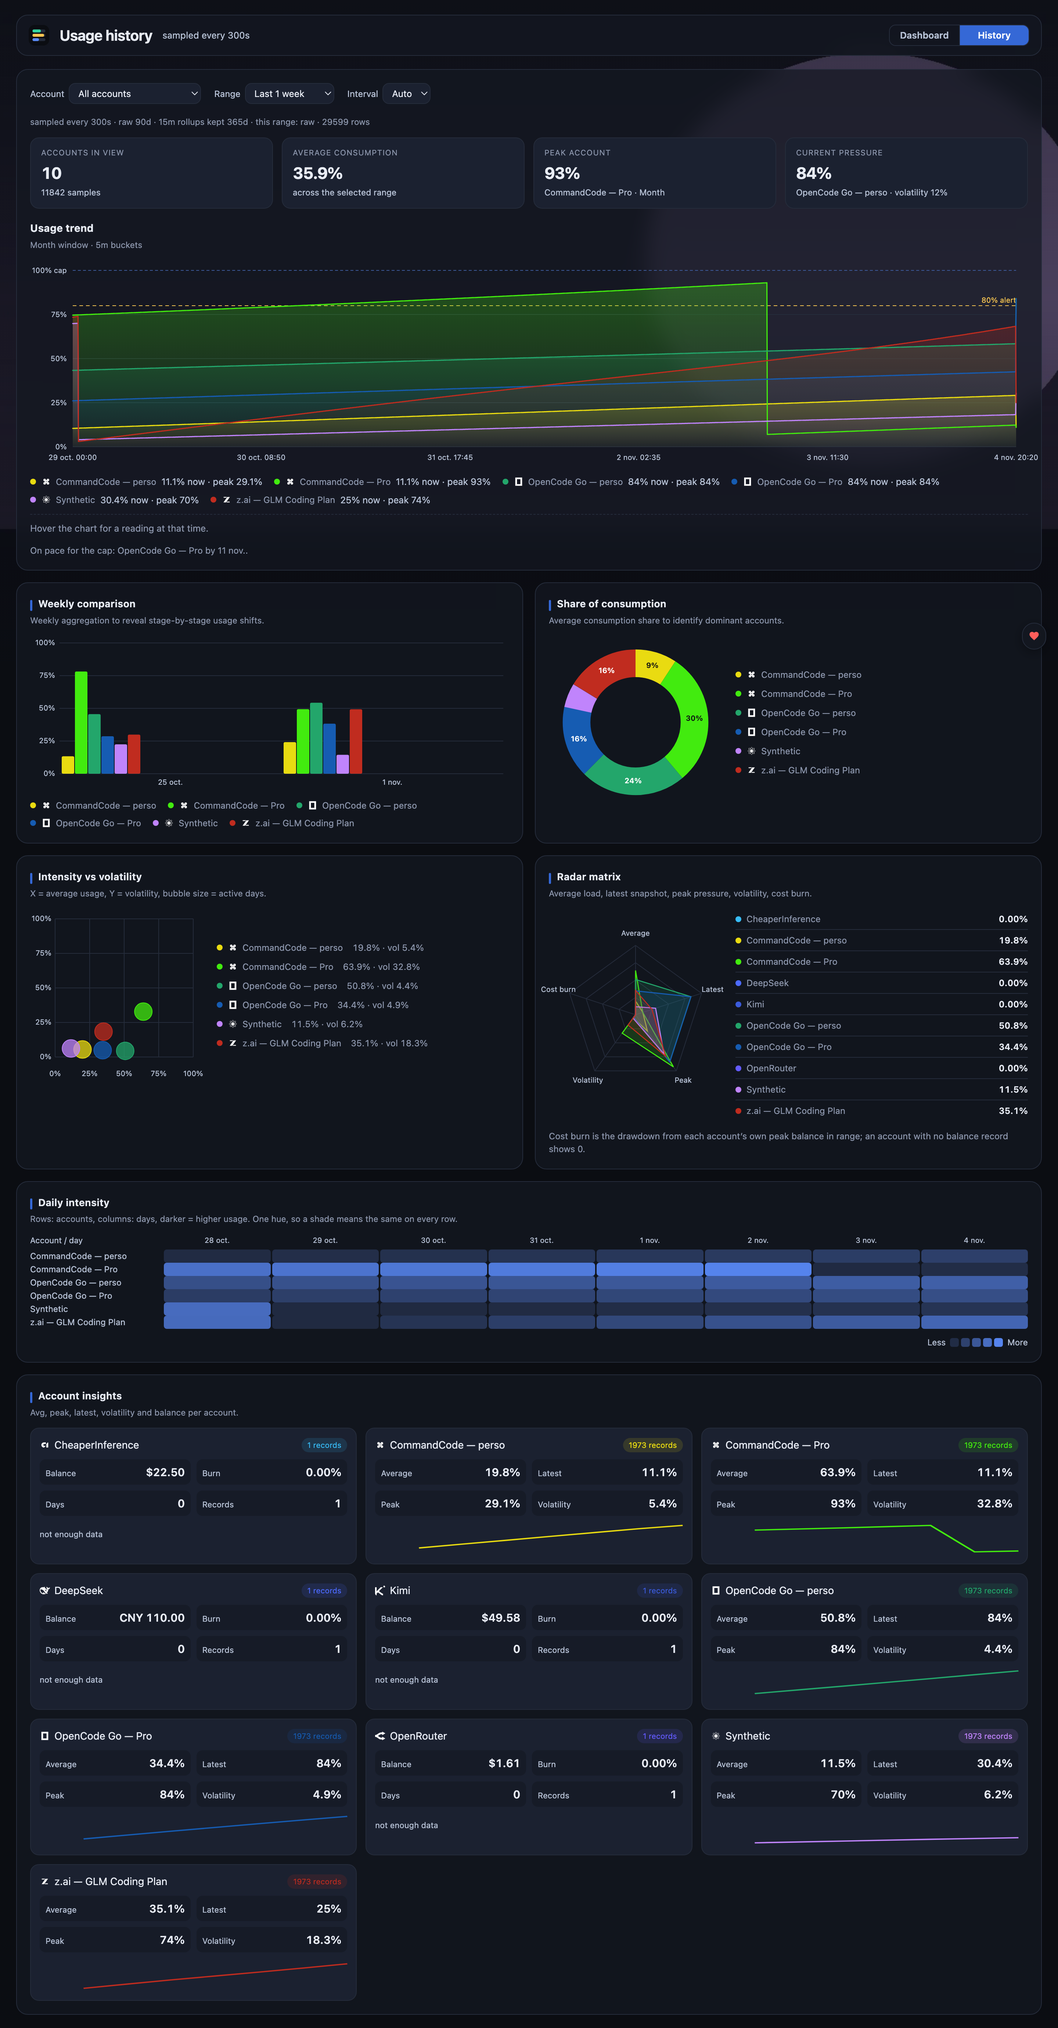
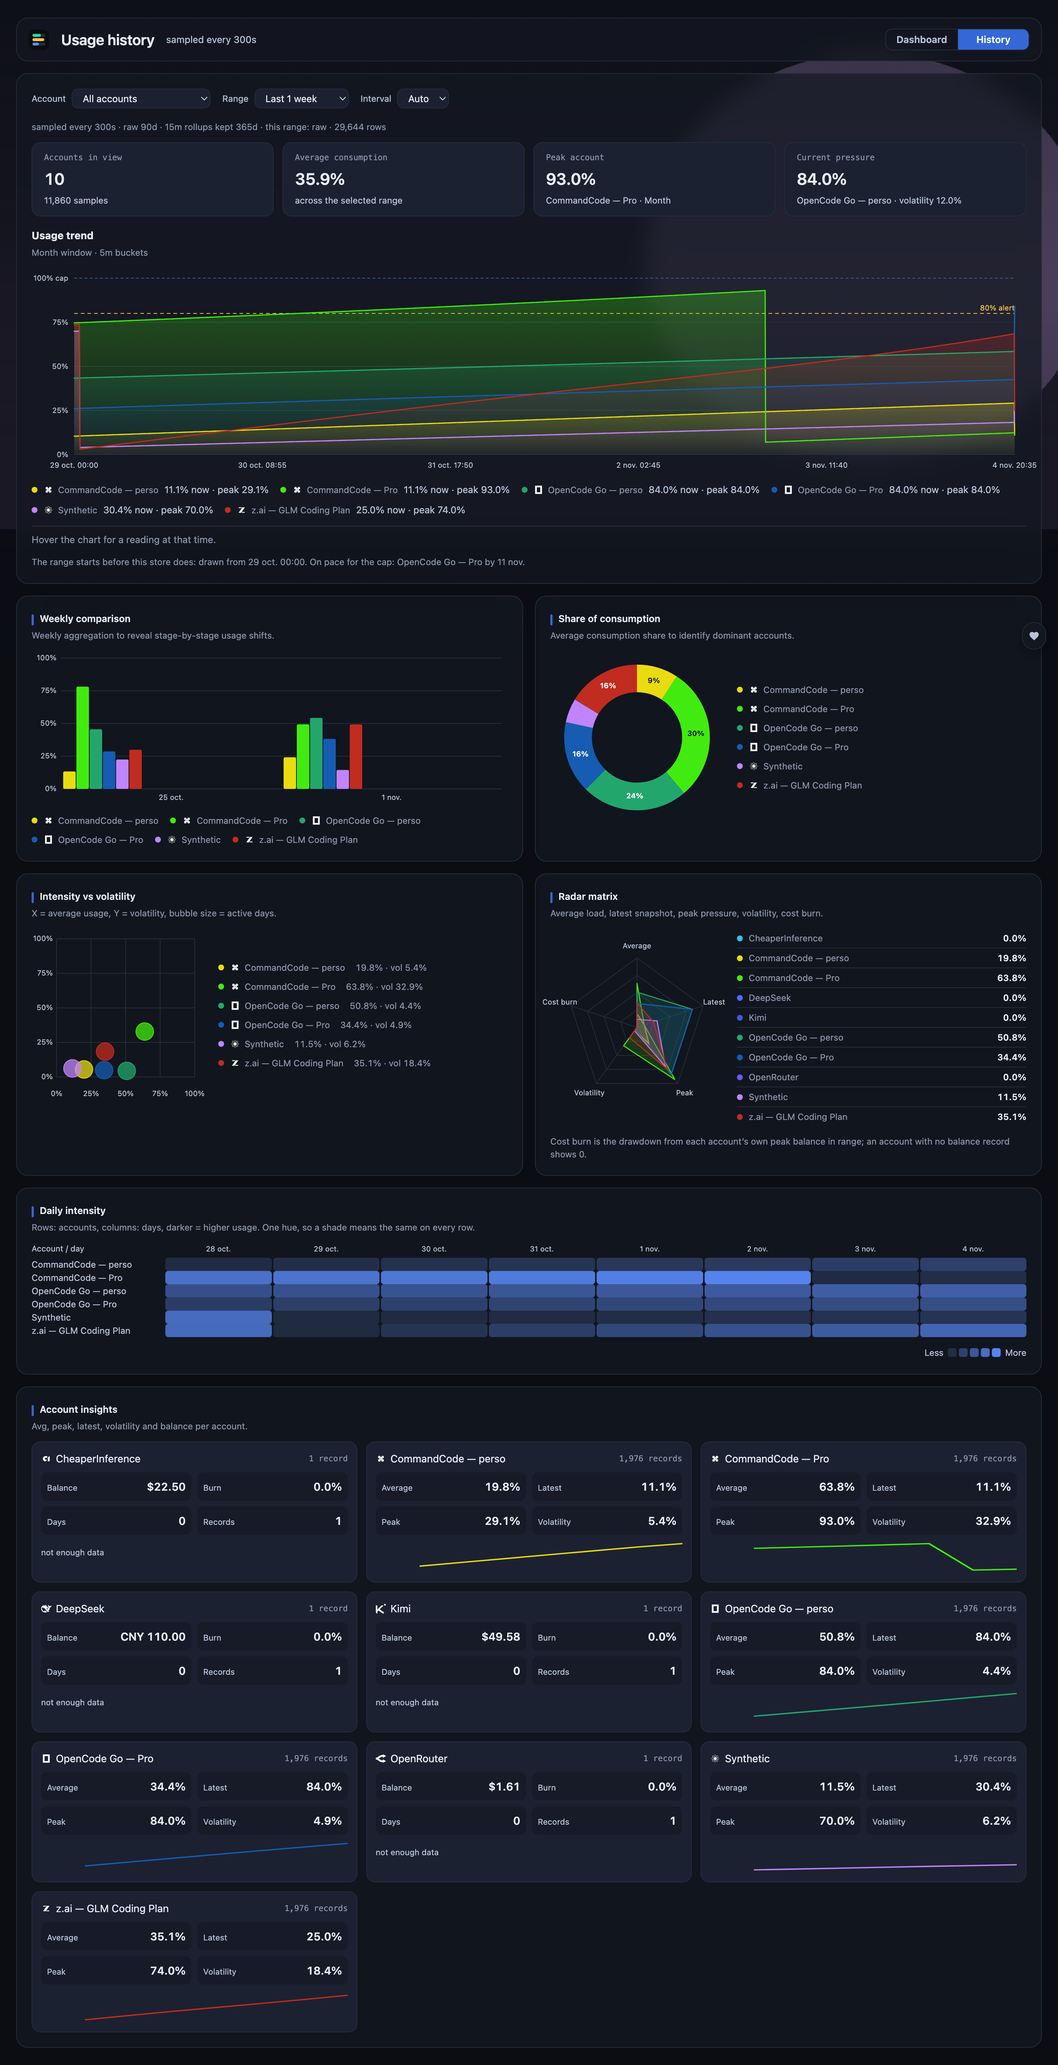
ui(history): same finish as the dashboard
The history page still carried every sign the dashboard just shed:
- stat labels shouted in spaced capitals at 10.5px -> sentence case, mono 11px
- weights 650/700 and negative tracking -> 500/600, no tracking
- percentages switched between 0.00%, 35% and 35.9% -> one decimal everywhere;
  counts grouped (29,644 rows) and singular ('1 record')
- a per-card chip tinted with the account's series colour -> a quiet mono count
- margins, paddings and gaps put back on the 4px scale; panel 20, tile 8
- Ko-fi heart in the chrome's colour, label fades instead of animating width
- dashed readout rule -> solid; loading shimmer calmer
- 'by 11 nov..' -> one stop: the locale's short month already ends with one
- page gutters 24px, matching the dashboard; mobile padding on the grid

Charts keep their sizes, shapes and hand-rolled SVG.

diff --git a/static/history.html b/static/history.html
@@ -34,6 +34,8 @@
     --fg:#e8ecf5; --muted:#b7c2d6; --dim:#8b95ab; --ok:#33d69f; --warn:#f5c451; --hot:#ff6b6b; --accent:#3568d6;
     --accent-rgb:53,104,214;
     --card-alpha:.72; --card-blur:14px;
+    --mono:ui-monospace,SFMono-Regular,Menlo,Monaco,Consolas,"Roboto Mono",monospace;
+    --ease:cubic-bezier(.22,1,.36,1);
   }
   *{box-sizing:border-box}
   /* The page's custom chart control is the only keyboard stop, and a UA ring on an
@@ -42,7 +44,7 @@
   html,body{min-height:100%}
   body{margin:0;color:var(--fg);
        font:14px/1.5 -apple-system,BlinkMacSystemFont,"Segoe UI",Roboto,Helvetica,Arial,sans-serif;
-       padding:20px 22px 18px;
+       padding:24px 22px;
        background:var(--bg) url("/background") center / cover no-repeat}
   /* Readability scrim: the same curve as the live panel, so a card reads the same on both
      pages over the same artwork. Pointer-events off so it never swallows clicks. */
@@ -52,16 +54,16 @@
   /* The header floats: it sticks to the top of the viewport while the page scrolls, so the
      panel's identity and the way to the other page never scroll out of reach. Translucent plus
      blurred, so content passing under it stays legible rather than vanishing. */
-  header{position:sticky;top:20px;z-index:20;display:flex;align-items:center;gap:14px;
-       flex-wrap:wrap;margin-bottom:18px;
+  header{position:sticky;top:24px;z-index:20;display:flex;align-items:center;gap:16px;
+       flex-wrap:wrap;margin-bottom:16px;
        background:rgba(var(--card),var(--card-alpha));
-       border:1px solid var(--line);border-radius:16px;padding:12px 16px;
+       border:1px solid var(--line);border-radius:16px;padding:14px 16px;
        backdrop-filter:blur(var(--card-blur));-webkit-backdrop-filter:blur(var(--card-blur))}
-  h1{font-size:20px;margin:0;letter-spacing:-.01em;font-weight:650}
-  h2{font-size:14px;margin:0 0 4px;letter-spacing:.2px}
-  .sub{font-size:11.5px;color:var(--dim);margin-bottom:12px}
+  h1{font-size:20px;line-height:28px;margin:0;font-weight:600}
+  h2{font-size:14px;line-height:20px;margin:0 0 4px}
+  .sub{font-size:12px;color:var(--dim);margin-bottom:12px}
   .logo{width:28px;height:28px;border-radius:8px;flex:0 0 auto;align-self:center;display:block}
-  .muted{color:var(--muted);font-size:12.5px}
+  .muted{color:var(--muted);font-size:13px}
   /* Same position as the live panel's entry point: the last thing in the header, flush right. */
   .spacer{margin-left:auto}
   /* The Dashboard/History switch: one segmented control, the same shape as the live panel's --
@@ -69,7 +71,7 @@
   /* inline-grid with equal columns: both halves are the same width whatever the labels, so the
      control reads as one switch rather than two labels of different length. */
   .navseg{display:inline-grid;grid-auto-flow:column;grid-auto-columns:1fr;
-       border:1px solid var(--line);border-radius:9px;overflow:hidden;font-size:12.5px}
+       border:1px solid var(--line);border-radius:9px;overflow:hidden;font-size:13px}
   .navseg-item{display:inline-flex;align-items:center;justify-content:center;gap:6px;font-weight:600;
        color:var(--muted);text-decoration:none;padding:4px 14px;cursor:pointer}
   .navseg-item+.navseg-item{border-left:1px solid var(--line)}
@@ -77,20 +79,22 @@
   .navseg-item:not(.on):hover{color:var(--fg);background:rgba(var(--accent-rgb),.10)}
   .navseg-item:active{transform:translateY(1px)}
   @media (prefers-reduced-motion:no-preference){
-    .navseg-item{transition:color .15s,background .15s}
+    .navseg-item{transition:color .15s var(--ease),background .15s var(--ease)}
   }
   main{display:flex;flex-direction:column;gap:16px}
   .panel{background:rgba(var(--card),var(--card-alpha));border:1px solid var(--line);border-radius:16px;
-       padding:18px;backdrop-filter:blur(var(--card-blur));-webkit-backdrop-filter:blur(var(--card-blur))}
-  .controls{display:flex;flex-wrap:wrap;gap:14px 18px;align-items:center;margin-bottom:16px}
-  .controls label{font-size:12px;color:var(--muted);display:flex;gap:6px;align-items:center}
+       padding:20px;backdrop-filter:blur(var(--card-blur));-webkit-backdrop-filter:blur(var(--card-blur))}
+  .controls{display:flex;flex-wrap:wrap;gap:12px 16px;align-items:center;margin-bottom:16px}
+  .controls label{font-size:12px;color:var(--muted);display:flex;gap:8px;align-items:center}
   select{background:var(--card-2);color:var(--fg);border:1px solid var(--line);border-radius:9px;
-       padding:5px 8px;font:inherit;font-size:12.5px}
+       padding:4px 10px;font:inherit;font-size:13px}
   .stats{display:grid;gap:12px;grid-template-columns:repeat(auto-fit,minmax(160px,1fr));margin-bottom:16px}
-  .stat{background:var(--card-2);border:1px solid var(--line);border-radius:12px;padding:12px 14px}
-  .stat .k{font-size:10.5px;color:var(--dim);text-transform:uppercase;letter-spacing:.06em}
-  .stat .v{font-size:22px;font-weight:700;margin-top:3px;letter-spacing:-.02em;font-variant-numeric:tabular-nums}
-  .stat .s{font-size:11.5px;color:var(--muted);margin-top:2px}
+  .stat{background:var(--card-2);border:1px solid var(--line);border-radius:12px;padding:12px 16px}
+  /* The four stat labels were shouted in spaced capitals, 10.5px: the same sign the dashboard's
+     card labels had. Sentence case in the figures' mono, at the same step as every other label. */
+  .stat .k{font:500 11px/16px var(--mono);color:var(--dim);letter-spacing:0}
+  .stat .v{font-size:22px;font-weight:600;margin-top:4px;letter-spacing:0;font-variant-numeric:tabular-nums}
+  .stat .s{font-size:12px;color:var(--muted);margin-top:4px}
   .chart-wrap{position:relative;width:100%}
   .sq-side{display:flex;align-items:center;gap:18px;margin-top:12px}
   .sq-side .chart-wrap{flex:0 0 236px;width:236px;max-width:100%;aspect-ratio:1/1}
@@ -98,23 +102,23 @@
   .legend button .val{color:var(--dim);margin-left:6px;font-variant-numeric:tabular-nums}
   .sq-list{list-style:none;margin:0;padding:0;flex:1}
   .sq-list li{display:flex;align-items:center;justify-content:space-between;gap:12px;
-       padding:5px 0;border-bottom:1px solid var(--line);font-size:12px;color:var(--dim)}
+       padding:4px 0;border-bottom:1px solid var(--line);font-size:12px;color:var(--dim)}
   .sq-list li:last-child{border-bottom:0}
   .sq-list li b{color:var(--fg);font-weight:600;font-variant-numeric:tabular-nums}
-  .sq-list .dot{width:8px;height:8px;border-radius:50%;display:inline-block;margin-right:7px}
+  .sq-list .dot{width:8px;height:8px;border-radius:50%;display:inline-block;margin-right:8px}
   @media (max-width:700px){
     .sq-side{flex-direction:column}
     .sq-side .chart-wrap{flex:0 0 auto}
   }
   svg{display:block;width:100%;height:auto;overflow:visible}
   /* AIMeter's legend: a dot, a name, and a click that shows that line alone. */
-  .legend{display:flex;flex-wrap:wrap;gap:6px 16px;margin-top:12px}
+  .legend{display:flex;flex-wrap:wrap;gap:8px 16px;margin-top:12px}
   .legend button{background:none;border:0;color:var(--dim);font:inherit;font-size:12px;cursor:pointer;
-       padding:0;display:flex;align-items:center;gap:7px}
+       padding:0;display:flex;align-items:center;gap:8px}
   .legend button.off{opacity:.35}
   .legend .dot{width:8px;height:8px;border-radius:50%;flex:0 0 auto}
-  .readout{margin-top:10px;font-size:12.5px;color:var(--dim);min-height:20px;
-       font-variant-numeric:tabular-nums;border-top:1px dashed var(--line);padding-top:9px}
+  .readout{margin-top:12px;font-size:13px;color:var(--dim);min-height:20px;
+       font-variant-numeric:tabular-nums;border-top:1px solid var(--line);padding-top:8px}
   .readout b{color:var(--fg);font-weight:600}
   /* The intensity map, laid out like AIMeter's: a fixed name column, then one equal column per day,
      so a single day is a square and never a full-width bar. */
@@ -123,30 +127,30 @@
   .heat-grid{display:grid;align-items:center;gap:2px}
   .heat-head{font-size:10px;color:var(--muted);text-align:center;padding-bottom:4px;white-space:nowrap}
   .heat-corner{font-size:11px;color:var(--muted);padding:0 8px 4px 0}
-  .heat-name{font-size:11.5px;color:var(--muted);overflow:hidden;text-overflow:ellipsis;
-       white-space:nowrap;padding-right:10px}
+  .heat-name{font-size:12px;color:var(--muted);overflow:hidden;text-overflow:ellipsis;
+       white-space:nowrap;padding-right:12px}
   .heat-cell{height:18px;border-radius:4px;background:var(--card-2)}
-  .heat-legend{display:flex;align-items:center;justify-content:flex-end;gap:6px;margin-top:10px;
-       font-size:11.5px;color:var(--muted)}
+  .heat-legend{display:flex;align-items:center;justify-content:flex-end;gap:6px;margin-top:12px;
+       font-size:12px;color:var(--muted)}
   .heat-legend .row{display:flex;gap:3px}
   .heat-legend .sw{width:12px;height:12px;border-radius:3px;background:var(--accent)}
   .note{font-size:12px;color:var(--dim);margin-top:12px;line-height:1.45}
   /* A link inside a sentence is a link, not a button: the pill is the header's one control. */
   .note a{color:var(--accent)}
   .empty{padding:22px 4px;color:var(--muted)}
-  .stale{margin-top:12px;font-size:12.5px;color:var(--warn);background:#241f10;border:1px solid #4a3a17;
-       border-radius:9px;padding:10px 12px}
+  .stale{margin-top:12px;font-size:13px;color:var(--warn);background:#241f10;border:1px solid #4a3a17;
+       border-radius:10px;padding:8px 12px}
   code{background:var(--card-2);border:1px solid var(--line);border-radius:5px;padding:1px 5px;font-size:12px}
   /* AIMeter-style multi-panel grid: two chart panels per row where there is room. */
   .grid-2{display:grid;grid-template-columns:1fr;gap:16px}
   @media (min-width:980px){ .grid-2{grid-template-columns:1fr 1fr} }
   .panel-head{display:flex;align-items:center;gap:8px}
   .panel-head .bar{width:3px;height:15px;border-radius:2px;background:var(--accent);flex:0 0 auto}
-  .panel-head h2{font-size:13.5px;font-weight:650}
+  .panel-head h2{font-size:13px;font-weight:600}
   .skel{position:relative;overflow:hidden;background:rgba(255,255,255,.06);border-radius:8px}
   .skel::after{content:"";position:absolute;inset:0;transform:translateX(-100%);
-       background:linear-gradient(90deg,transparent,rgba(255,255,255,.09),transparent);
-       animation:shimmer 1.3s infinite}
+       background:linear-gradient(90deg,transparent,rgba(255,255,255,.06),transparent);
+       animation:shimmer 1.6s infinite}
   @keyframes shimmer{100%{transform:translateX(100%)}}
   .skel-chart{height:210px;margin:10px 0}
   .badge{display:inline-flex;align-items:center;gap:6px;min-width:0}
@@ -156,36 +160,39 @@
   @media (min-width:700px){ .insight-grid{grid-template-columns:1fr 1fr} }
   @media (min-width:1200px){ .insight-grid{grid-template-columns:1fr 1fr 1fr} }
   .insight{border:1px solid var(--line);border-radius:12px;padding:12px;background:var(--card-2)}
-  .insight .top{display:flex;align-items:center;justify-content:space-between;gap:8px;margin-bottom:9px}
-  .insight .tiles{display:grid;grid-template-columns:1fr 1fr;gap:8px;margin-bottom:9px}
-  .insight .tile{background:rgba(0,0,0,.18);border-radius:8px;padding:6px 8px;display:flex;
+  .insight .top{display:flex;align-items:center;justify-content:space-between;gap:8px;margin-bottom:8px}
+  .insight .tiles{display:grid;grid-template-columns:1fr 1fr;gap:8px;margin-bottom:8px}
+  .insight .tile{background:rgba(0,0,0,.18);border-radius:8px;padding:8px;display:flex;
        align-items:baseline;justify-content:space-between;gap:6px;min-width:0}
   .insight .tile .k{font-size:11px;color:var(--muted);white-space:nowrap}
   .insight .tile .v{font-size:15px;font-weight:600;font-variant-numeric:tabular-nums}
-  .insight .pill{font-size:10.5px;padding:2px 8px;border-radius:999px;white-space:nowrap}
+  /* The record count used to be a chip tinted with the account's series colour — a coloured badge
+     on every card, at 10.5px, whose contrast changed with the hue and whose colour repeated what
+     the sparkline already said. It is a count: mono, quiet, no chip. */
+  .insight .count{font:500 11px/16px var(--mono);color:var(--dim);white-space:nowrap}
   .insight .spark{height:44px;margin-top:2px}
   .axis{font-size:10px;fill:var(--muted)}
   /* The support link: fixed, small, and out of the reading column. It is an anchor, not a
      resource load, so it stays same-origin for the page's own requests. */
   .kofi{position:fixed;right:16px;bottom:16px;z-index:60;display:inline-flex;align-items:center;
-       gap:0;padding:8px;border-radius:999px;text-decoration:none;font-size:12.5px;
-       color:var(--fg);background:rgba(var(--card),.8);border:1px solid var(--line);
+       gap:0;padding:8px;border-radius:999px;text-decoration:none;font-size:13px;
+       color:var(--muted);background:rgba(var(--card),.8);border:1px solid var(--line);
        backdrop-filter:blur(10px);-webkit-backdrop-filter:blur(10px);box-shadow:0 4px 16px rgba(0,0,0,.35)}
-  .kofi:hover{color:#fff;border-color:var(--accent)}
-  .kofi svg{width:15px;height:15px;fill:#ff5e5b;flex:0 0 auto}
+  .kofi:hover{color:var(--fg);border-color:var(--accent)}
+  .kofi svg{width:15px;height:15px;fill:currentColor;flex:0 0 auto}
   .kofi span{font-weight:600;max-width:0;opacity:0;overflow:hidden;white-space:nowrap}
-  .kofi:hover span,.kofi:focus-visible span{max-width:5em;opacity:1;margin-left:7px}
+  .kofi:hover span,.kofi:focus-visible span{max-width:5em;opacity:1;margin-left:8px}
   @media (prefers-reduced-motion:no-preference){
-    .kofi{transition:color .15s,border-color .15s}
-    .kofi span{transition:max-width .18s ease,opacity .18s ease,margin-left .18s ease}
+    .kofi{transition:color .15s var(--ease),border-color .15s var(--ease)}
+    .kofi span{transition:opacity .15s var(--ease)}
   }
   @media (prefers-reduced-motion:reduce){ .skel::after{animation:none} }
   .render-error{margin-top:10px;font-size:12px;color:#ffb4b4}
   /* The support pill is fixed: on a narrow screen it used to come to rest over the last panel. */
-  @media (max-width:640px){ body{padding:14px 14px 68px} }
+  @media (max-width:640px){ body{padding:16px 16px 72px} }
   /* A separate rule: the line above is string-matched by tests/history.py, so the floating
      header's offset lives where it cannot disturb it. */
-  @media (max-width:640px){ header{top:14px} }
+  @media (max-width:640px){ header{top:16px} }
 </style>
 </head>
 <body>
@@ -466,19 +473,30 @@ function labelInk(hex){
 function fmtMoney(amount, currency){
   if(amount === null || amount === undefined || !isFinite(amount)) return '—';
   const symbol = currency === 'USD' ? '$' : (currency ? currency + ' ' : '');
-  return symbol + amount.toFixed(2);
+  return symbol + NF_MONEY.format(amount);
 }
 
 function esc(s){ return String(s === null || s === undefined ? '' : s)
   .replace(/&/g,'&amp;').replace(/</g,'&lt;').replace(/>/g,'&gt;').replace(/"/g,'&quot;').replace(/'/g,'&#39;'); }
 
-function fmtPercent(v){
-  // A reading is never rounded into a different reading: 0.09% stays visible, and a missing
-  // value is a dash rather than a 0 the provider never sent.
+// One format per kind of figure, the same rule the live panel follows: a percentage always carries
+// one decimal (35.0%, 84.0%), money two (110.00), a count is grouped and whole (29,569). The old
+// rule switched between 0.00%, 35% and 35.9% inside one column, so two neighbouring numbers of the
+// same kind read as two different units. Missing stays a dash, never a 0 the provider did not send.
+// en-US punctuation whatever the reader's locale, because every string around these numbers is
+// English and a currency symbol is written before the amount.
+const NF_GROUP = new Intl.NumberFormat('en-US');
+const NF_MONEY = new Intl.NumberFormat('en-US', {minimumFractionDigits:2, maximumFractionDigits:2});
+function fmtCount(v){
   if(v === null || v === undefined || !isFinite(v)) return '—';
-  if(Math.abs(v) < 1) return v.toFixed(2) + '%';
-  if(Math.abs(v - Math.round(v)) < 0.05) return String(Math.round(v)) + '%';
-  return v.toFixed(1) + '%';
+  return NF_GROUP.format(Math.round(v));
+}
+function fmtPercent(v){
+  if(v === null || v === undefined || !isFinite(v)) return '—';
+  return (Math.round(v * 10) / 10).toFixed(1) + '%';
+}
+function countLabel(n, one, many){
+  return fmtCount(n) + ' ' + (Number(n) === 1 ? one : many);
 }
 
 function fmtStamp(epoch, withDate){
@@ -863,7 +881,7 @@ function renderStats(){
   const volatility = metrics.length
     ? metrics.reduce((sum, m) => sum + (m.volatility || 0), 0) / metrics.length : 0;
   const stats = [
-    {k:'Accounts in view', v:String(accounts.size), s:samples + ' samples'},
+    {k:'Accounts in view', v:fmtCount(accounts.size), s:countLabel(samples, 'sample', 'samples')},
     {k:'Average consumption', v:fmtPercent(average), s:'across the selected range'},
     {k:'Peak account', v:peak ? fmtPercent(peak.peak) : '—',
      s:peak ? peak.label + ' · ' + peak.window : 'no data in range'},
@@ -895,7 +913,7 @@ function renderStore(){
   if(sources){
     const rows = (sources.raw_rows || 0) + (sources.rollup_rows || 0)
                + (sources.balance_rows || 0) + (sources.balance_rollup_rows || 0);
-    parts.push('this range: ' + sources.resolution + ' · ' + rows + ' row' + (rows === 1 ? '' : 's'));
+    parts.push('this range: ' + sources.resolution + ' · ' + fmtCount(rows) + ' row' + (rows === 1 ? '' : 's'));
   }
   node.textContent = parts.join(' · ');
 }
@@ -937,8 +955,7 @@ function renderBreakdown(){
     ];
     return '<div class="insight"><div class="top">'
       + badgeHtml(s.provider, s.window_label || s.window_key)
-      + '<span class="pill" style="background:' + color + '22;color:' + color + '">'
-      + (s.samples || 0) + ' samples</span></div>'
+      + '<span class="count">' + countLabel(s.samples || 0, 'sample', 'samples') + '</span></div>'
       + '<div class="tiles">' + tiles.map(t => '<div class="tile"><span class="k">' + esc(t[0])
         + '</span><span class="v">' + esc(t[1]) + '</span></div>').join('') + '</div>'
       + sparkline(daySeries.avg || [], color)
@@ -1015,8 +1032,12 @@ function renderNote(){
     .map(entry => ({entry: entry, at: projection(entry, state.data ? state.data.bucket_seconds : 0, nowEpoch)}))
     .filter(item => item.at)
     .sort((a, b) => a.at - b.at)[0];
-  if(soonest) parts.push('On pace for the cap: ' + seriesLabel(soonest.entry) + ' by '
-    + soonest.at.toLocaleDateString([], {month: 'short', day: 'numeric'}) + '.');
+  if(soonest) {
+    // A locale's short month is already abbreviated with a full stop ("11 nov."); appending the
+    // sentence's own stop printed "11 nov..". Strip it and close the sentence once.
+    const when = soonest.at.toLocaleDateString([], {month: 'short', day: 'numeric'}).replace(/\.$/, '');
+    parts.push('On pace for the cap: ' + seriesLabel(soonest.entry) + ' by ' + when + '.');
+  }
   note.className = state.stale ? 'stale' : 'note';
   note.textContent = parts.join(' ');
 }
@@ -1621,8 +1642,7 @@ function renderInsights(){
       spark = sparkline(daySeries.avg || [], m.color);
     }
     return '<div class="insight"><div class="top">' + badgeHtml(m.provider, m.label)
-      + '<span class="pill" style="background:' + m.color + '22;color:' + m.color + '">'
-      + (m.records || 0) + ' records</span></div>'
+      + '<span class="count">' + countLabel(m.records || 0, 'record', 'records') + '</span></div>'
       + '<div class="tiles">' + tiles.map(t => '<div class="tile"><span class="k">' + esc(t[0])
         + '</span><span class="v">' + esc(t[1]) + '</span></div>').join('') + '</div>'
       + spark + '</div>';

diff --git a/tests/history.py b/tests/history.py
@@ -1040,7 +1040,7 @@ def page_checks():
           ":focus-visible{outline:2px solid var(--accent)" in page,
           "the page's custom controls must show where the keyboard is")
     check("the history page clears the fixed support pill on a phone",
-          "@media (max-width:640px){ body{padding:14px 14px 68px} }" in page,
+          "@media (max-width:640px){ body{padding:16px 16px 72px} }" in page,
           "the pill covers the last panel under 640px otherwise")
     check("one failed panel does not abort the rest",
           "function safeRender" in page and "function reportRenderError" in page
